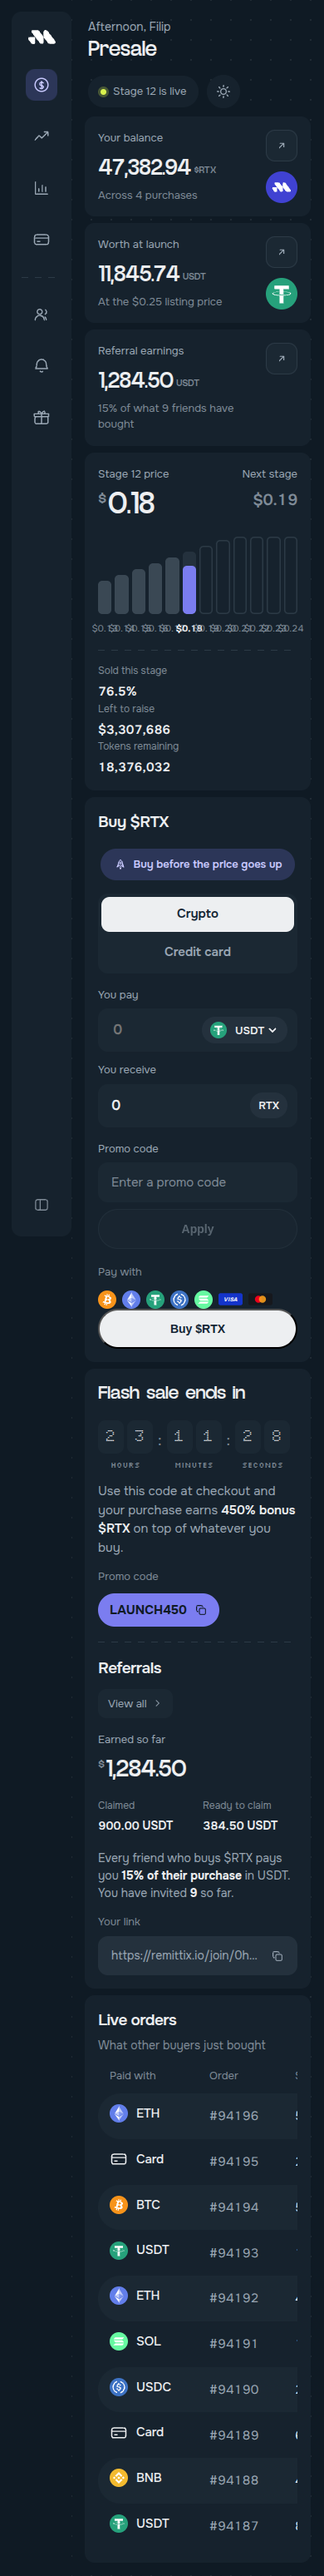
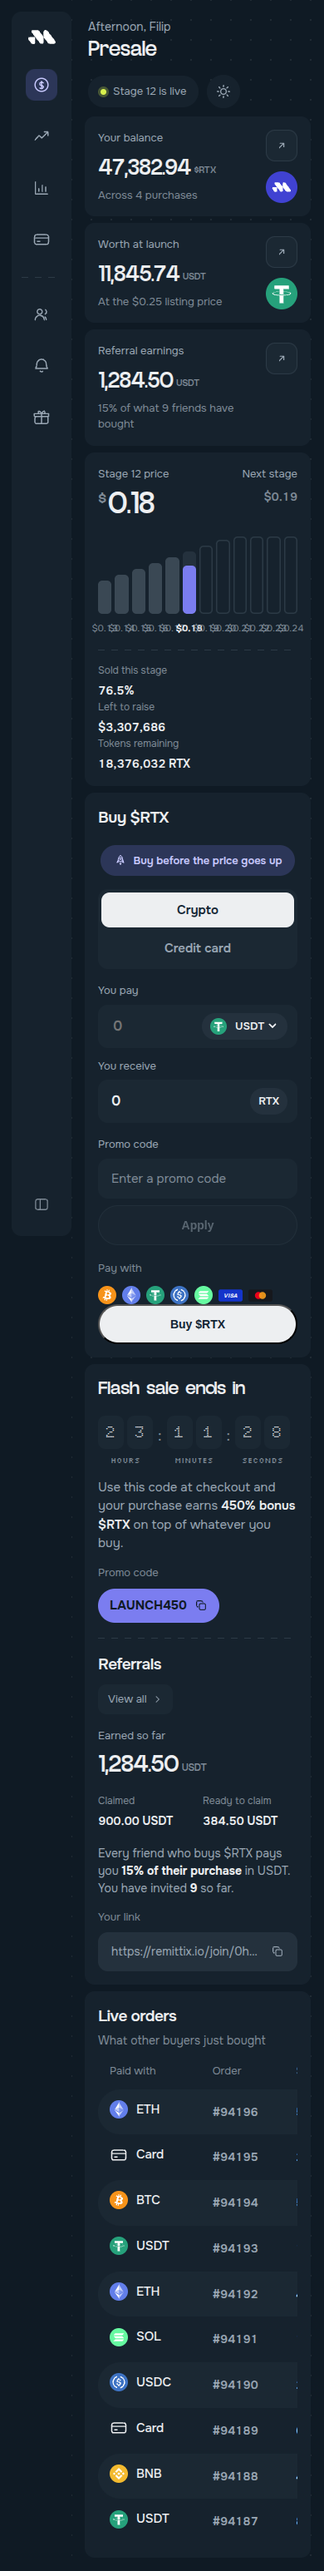
Put every number on one of two scales
The same class of readout had four different treatments: the referrals split at
14/600/-0.02em, the ladder facts at 15, the next-stage price at 19/-0.03em, and
the live table at 15/400/-0.01em. A .num class now holds that one rule and each
of those sites uses it, so the next number added inherits it rather than
inventing a fifth.

Tier one had a mixture of its own. Referral earnings appeared as "$1,284.50" on
the referrals card and "1,284.50 USDT" on the stat card — the same quantity,
two forms. The unit is now always set small and muted after the number, and the
superscript symbol is kept for a bare price, where there is no unit word to
write.

Tokens remaining gains its RTX unit, since every other figure names what it
counts.

Claude-Session: https://claude.ai/code/session_01T7rccehcWsctzfM8DBEqzJ

diff --git a/src/dashboard/dashboard.css b/src/dashboard/dashboard.css
@@ -114,6 +114,23 @@ html[data-dash-theme='light'] body { background: #edeff1; }
   border-radius: 6px;
 }
 
+/* ---------- Numbers ----------
+   Two tiers, and nothing in between.
+
+   Tier 1, .fig — the one figure a card exists to show. Display face, unit set
+   small and muted after it.
+   Tier 2, .num — every other readout: facts, splits, table cells. 14px, 600,
+   tabular, unit inline at the same size and colour.
+   The only exception is .ladder__n, the price under each stage bar, which is
+   an axis label twelve across and cannot be 14px. */
+.num {
+  font-size: 14px;
+  font-weight: 600;
+  letter-spacing: -0.02em;
+  font-variant-numeric: tabular-nums;
+  white-space: nowrap;
+}
+
 /* ---------- The headline number ---------- */
 .fig {
   font-family: var(--d-display);
@@ -634,11 +651,7 @@ html[data-dash-theme='light'] body { background: #edeff1; }
 .ladder__next { text-align: right; }
 .ladder__next-price {
   margin: 8px 0 0;
-  font-size: 19px;
-  font-weight: 600;
-  letter-spacing: -0.03em;
   color: var(--d-text-3);
-  font-variant-numeric: tabular-nums;
 }
 .ladder__steps {
   list-style: none;
@@ -709,10 +722,6 @@ html[data-dash-theme='light'] body { background: #edeff1; }
 .ladder__facts dt { font-size: 12px; color: var(--d-text-3); }
 .ladder__facts dd {
   margin: 5px 0 0;
-  font-size: 15px;
-  font-weight: 600;
-  letter-spacing: -0.02em;
-  font-variant-numeric: tabular-nums;
 }
 
 /* ---------- Buy ---------- */
@@ -916,11 +925,6 @@ html[data-dash-theme='light'] body { background: #edeff1; }
 .referrals__split dt { font-size: 12px; color: var(--d-text-3); }
 .referrals__split dd {
   margin: 5px 0 0;
-  font-weight: 600;
-  font-size: 14px;
-  letter-spacing: -0.02em;
-  font-variant-numeric: tabular-nums;
-  white-space: nowrap;
 }
 .referrals__invite { min-width: 0; }
 .referrals__pitch { margin: 0 0 14px; font-size: 14px; color: var(--d-text-2); }
@@ -939,9 +943,6 @@ html[data-dash-theme='light'] body { background: #edeff1; }
 }
 .orders__table td {
   padding: 13px 14px;
-  font-size: 15px;
-  font-variant-numeric: tabular-nums;
-  letter-spacing: -0.01em;
 }
 /* Rows separate by their own ground, not by rules. */
 .orders__table tbody tr td:first-child { border-radius: 999px 0 0 999px; }
@@ -954,6 +955,7 @@ html[data-dash-theme='light'] body { background: #edeff1; }
   gap: 10px;
   font-weight: 500;
   font-variant-numeric: normal;
+  letter-spacing: -0.01em;
 }
 .orders__id, .orders__time { color: var(--d-text-2); }
 

diff --git a/src/dashboard/panels/StageLadder.tsx b/src/dashboard/panels/StageLadder.tsx
@@ -19,7 +19,7 @@ export function StageLadder() {
         </div>
         <div className="ladder__next">
           <p className="ladder__label">Next stage</p>
-          <p className="ladder__next-price">${PRESALE.nextPrice.toFixed(2)}</p>
+          <p className="num ladder__next-price">${PRESALE.nextPrice.toFixed(2)}</p>
         </div>
       </div>
 
@@ -48,15 +48,15 @@ export function StageLadder() {
       <dl className="ladder__facts">
         <div>
           <dt>Sold this stage</dt>
-          <dd>{sold.toFixed(1)}%</dd>
+          <dd className="num">{sold.toFixed(1)}%</dd>
         </div>
         <div>
           <dt>Left to raise</dt>
-          <dd>${whole(PRESALE.usdLeft)}</dd>
+          <dd className="num">${whole(PRESALE.usdLeft)}</dd>
         </div>
         <div>
           <dt>Tokens remaining</dt>
-          <dd>{whole(PRESALE.rtxLeft)}</dd>
+          <dd className="num">{whole(PRESALE.rtxLeft)} RTX</dd>
         </div>
       </dl>
     </section>

diff --git a/src/dashboard/panels/Referrals.tsx b/src/dashboard/panels/Referrals.tsx
@@ -21,15 +21,15 @@ export function Referrals() {
       <div className="referrals__body">
         <div className="referrals__figures">
           <p className="referrals__label">Earned so far</p>
-          <Figure className="referrals__earnings" symbol="$" value={money(REFERRALS.earnings)} />
+          <Figure className="referrals__earnings" value={money(REFERRALS.earnings)} suffix="USDT" />
           <dl className="referrals__split">
             <div>
               <dt>Claimed</dt>
-              <dd>{money(REFERRALS.claimed)} USDT</dd>
+              <dd className="num">{money(REFERRALS.claimed)} USDT</dd>
             </div>
             <div>
               <dt>Ready to claim</dt>
-              <dd>{money(REFERRALS.earnings - REFERRALS.claimed)} USDT</dd>
+              <dd className="num">{money(REFERRALS.earnings - REFERRALS.claimed)} USDT</dd>
             </div>
           </dl>
         </div>

diff --git a/src/dashboard/panels/LiveOrders.tsx b/src/dashboard/panels/LiveOrders.tsx
@@ -35,10 +35,10 @@ export function LiveOrders() {
                     {label(order.method)}
                   </span>
                 </td>
-                <td className="orders__id">#{order.id}</td>
-                <td>{money(order.rtx)}</td>
-                <td>{usd(order.usd)}</td>
-                <td className="is-right orders__time">{order.minutesAgo}m ago</td>
+                <td className="num orders__id">#{order.id}</td>
+                <td className="num">{money(order.rtx)}</td>
+                <td className="num">{usd(order.usd)}</td>
+                <td className="num is-right orders__time">{order.minutesAgo}m ago</td>
               </tr>
             ))}
           </tbody>

diff --git a/README.md b/README.md
@@ -138,6 +138,23 @@ chosen tab and a hovered ghost button all take the same solid pill. Labels are
 sentence case — no tracked-out capitals, and no meta strings strung together
 with middle dots.
 
+### Numbers
+
+Two tiers, and nothing between them.
+
+`.fig` is the one figure a card exists to show — the balance, the stage price,
+referral earnings. Display face, and the unit set small and muted after the
+number rather than as a symbol in front of it, so `1,284.50 USDT` reads the
+same wherever it appears.
+
+`.num` is every other readout: the ladder facts, the referrals split, every
+numeric cell in the live table. 14px, 600, tabular, `-0.02em`, with the unit
+inline at the same size and colour. Add the class rather than restating those
+five properties, which is how four different treatments crept in before.
+
+The one exception is `.ladder__n`, the price under each stage bar. It is an
+axis label twelve across and cannot be 14px.
+
 ### The display face
 
 `NewBlack Typeface` is the design's display face and is a licensed retail font,
